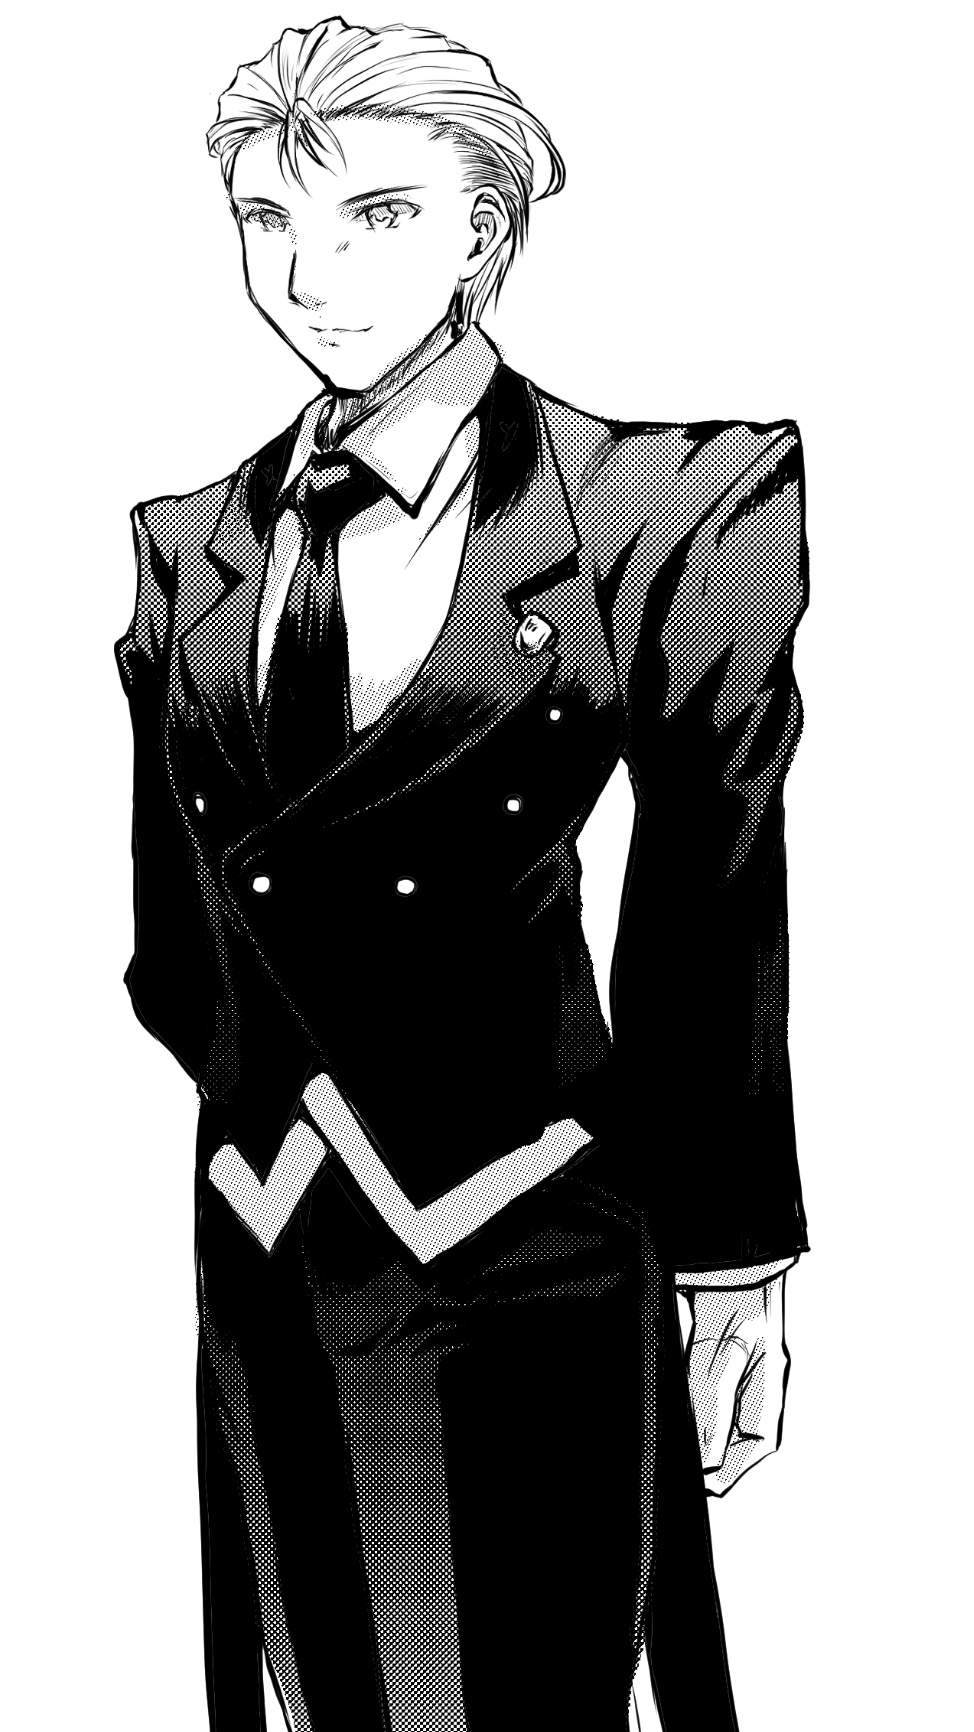
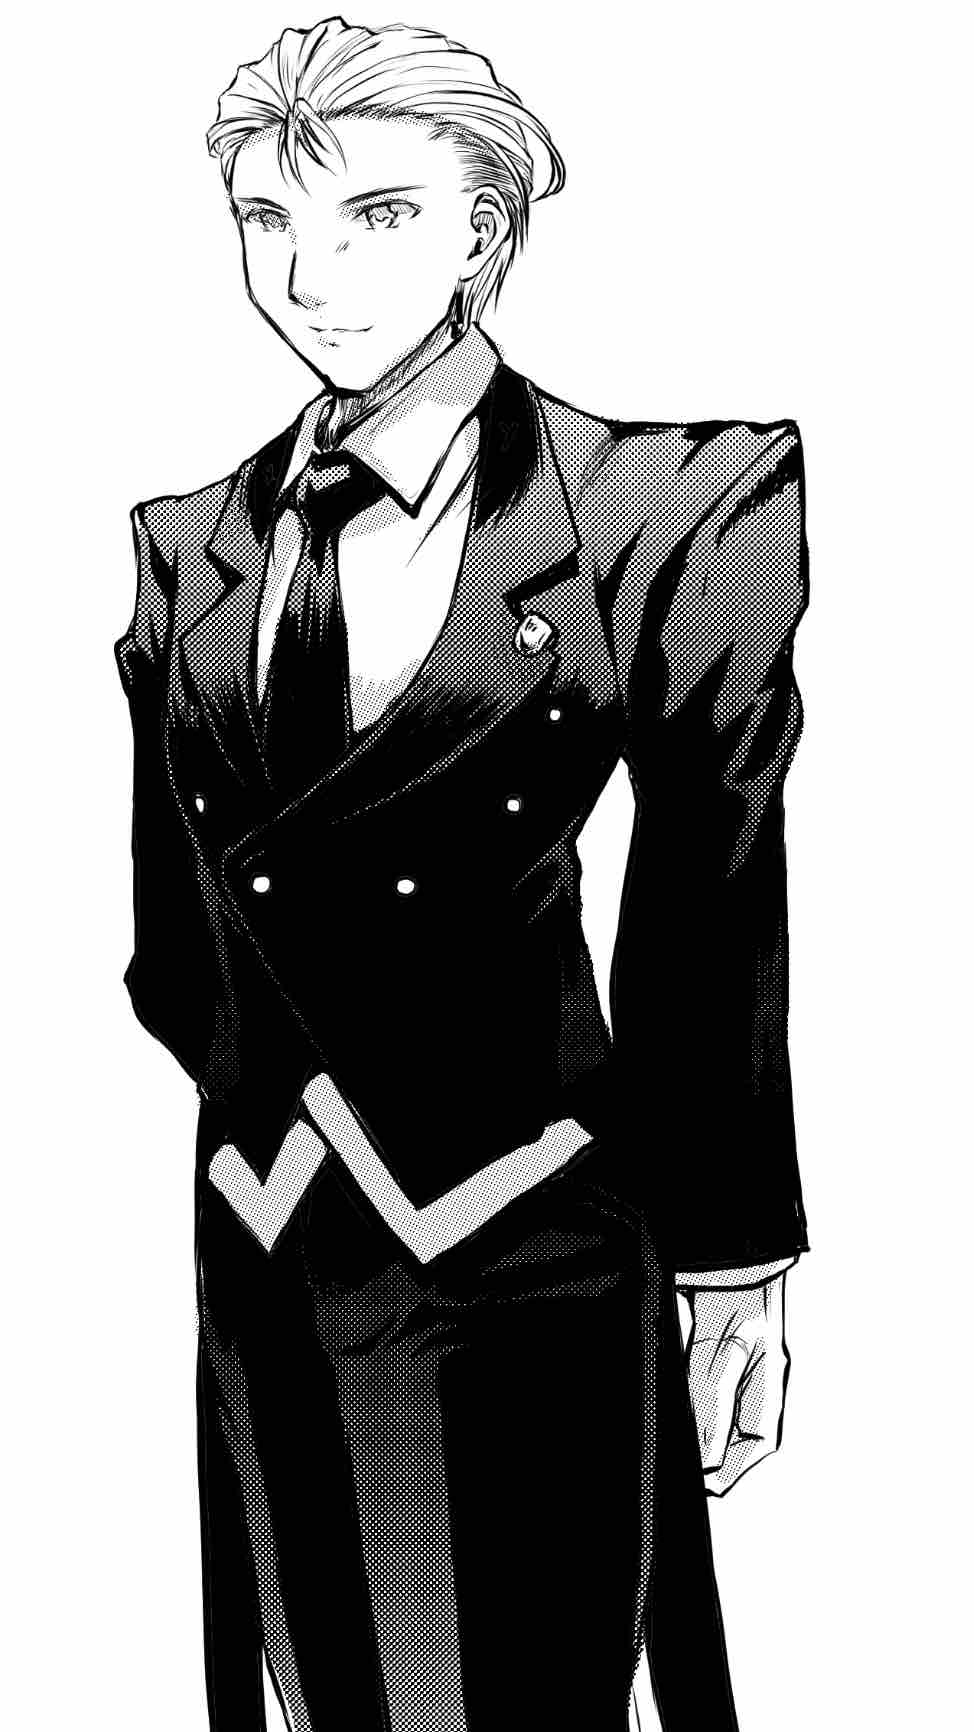
新增角色插圖

diff --git a/docs/story/01/npc.md b/docs/story/01/npc.md
@@ -22,6 +22,8 @@
 
 ## 亡者女王莉蓮娜
 
+![liliana](./npc-liliana.jpg)
+
 精通死靈術的旅法師，她擅長用魔法力來復活死者，腐化生者，並從死亡中召喚力量。外表只有20來歲，實際上她已經經歷過一個世紀的滄桑。
 
 在十年前與凱爾希相遇，當時的凱爾希身受重傷，身為貴族的父親四處尋求名醫但是仍舊無法拯救自己心愛的女兒。最後找上了莉蓮娜，以自身的靈魂與女兒的身體作為了交換，讓愛女的生命可以得以延續。莉蓮娜在凱爾希的身上加上了死亡的詛咒，所有凱爾希所碰觸到的生命都會瞬間凋零，其生命力將會轉換成為凱爾希的生命泉源。
